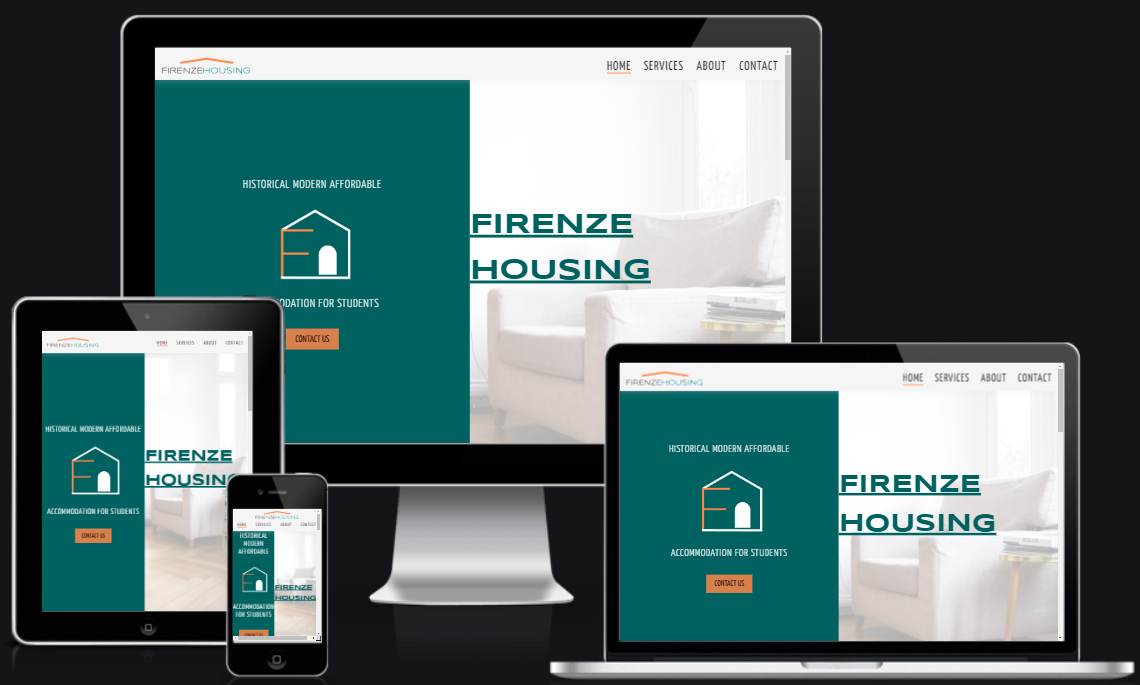
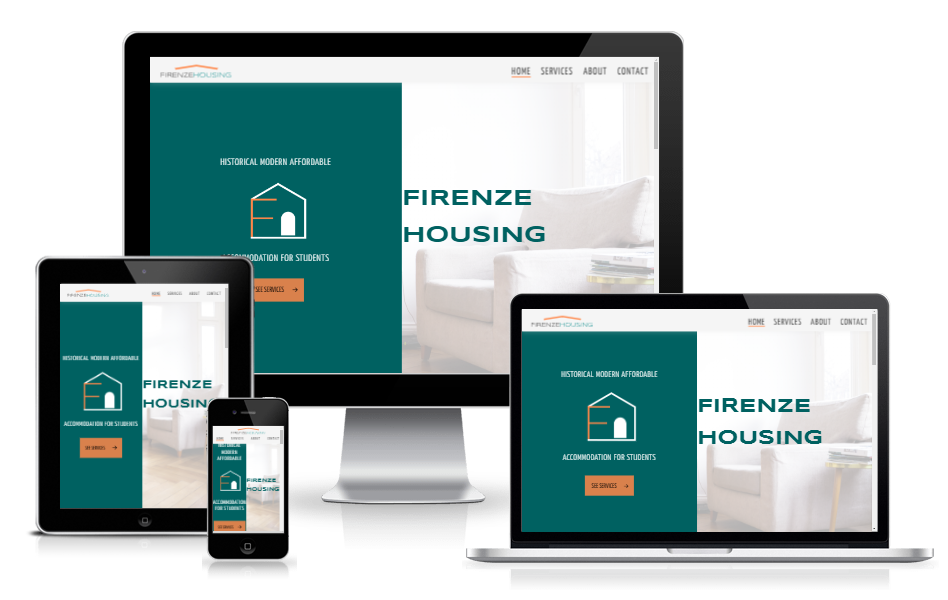
edit: upload new images after some changes

diff --git a/README.md b/README.md
@@ -97,13 +97,11 @@ A minimal color scheme and typography have been chosen to create a simple, eye-c
 
 ### Colour Scheme
 
-![Dark shade of green-cyan](assets/images/colour_scheme/dark_shade_of_green_cyan.png) ![Medium light shade of orange](assets/images/colour_scheme/medium_light_shade_of_orange.png)  ![Medium light shade of orange](assets/images/colour_scheme/aquamarine.png)
+![Dark shade of green-cyan](assets/images/colour_scheme/dark_shade_of_green_cyan.png) ![Medium light shade of orange](assets/images/colour_scheme/medium_light_shade_of_orange.png)
 
 - The two main colors in the logo design are used throughout the site to separate sections and objects from each other. The dark shade of green-cyan color with **#006161** hex code is densely used in the background and title text of the main sections. In addition, the colors of these illustrations have been adjusted accordingly in order to ensure that the illustrations in different sections are compatible with the page layout.
 
-- The second main color, **#ff8749** hex coded medium light shade of orange, is mostly used to highlight the buttons. This choice was made because it is a more attractive color than the dark green color.
-
-- Aquamarine with the **#7fffd4** hex code is used to highlight the price and booking buttons in the services section.
+- The second main color, **#ff8749** hex coded medium light shade of orange, is mostly used to highlight the buttons. This color i also used to highlight the price and booking buttons in the services section. This choice was made because it is a more attractive color than the dark green color.
 
 - Black color is used in the general font and icons of the site.
 
@@ -111,7 +109,7 @@ A minimal color scheme and typography have been chosen to create a simple, eye-c
 
 ### Typography
 
-- In order to have a simple design, two fonts are used. Syncopate was used for the main title and sub-titles, and Serif was used as its fallback. In order to attract attention to the main headings,underline decoration was applied. This is not implemented in the subheadings.
+- In order to have a simple design, two fonts are used. Syncopate was used for the main title and sub-titles, and Serif was used as its fallback.
 
 - All remaining sections of the website (navigation menu, descriptions, etc.) use Yanone Kaffeesatz and Sans-serif as fallback font.
 
@@ -165,29 +163,30 @@ The site consists of index.html, services.html, contact.html pages.
 
 ### Navigation Bar
 
-![Navigation Bar](assets/images/structure/navigation_structure.png)
+- The Navigation menu is fixed at the top of all pages to provide the user with easy navigation between the pages. In order to determine which page the user is currently on, there is an orange underline effect below the name of the current page.
 
-The Navigation menu is fixed at the top of all pages to provide the user with easy navigation between the pages. In order to determine which page the user is currently on, there is an orange under-line effect under the name of the current page.
-
-![Navigation Bar](assets/images/structure/navigation_mobile_structure.png)
+  ![Navigation Bar](assets/images/structure/navigation_structure.png)
 
 - On screens with 719 px and below, the logo goes over the navigation menu links.
+
+  ![Navigation Bar](assets/images/structure/navigation_mobile_structure.png)
 
 [Back to contents](<#contents>)
 
 ### Sub navigations
 
-![Contact Us Navigation](assets/images/structure/contact_us_navigation_btn.png)
+- The "Services" sub-navigation on the main page is for quickly directing the user to the Services page.
 
-- The "Contact Us" sub-navigation on the main page is for quickly directing the user to the contact form.
-
-![Contact Us Navigation](assets/images/structure/main_services_sub_nav.png)
+  ![Services Main Navigation](assets/images/structure/main_navigation_btn.png)
 
 - The 4 icons in the services section of the home page quickly guide the user to the desired service section. In the desktop version, when the user hover over any of these icons, the color of the icon changes.
 
-![Contact Us Navigation](assets/images/structure/services_navigation.png)   ![Contact Us Navigation](assets/images/structure/services_navigation+2.png)
+  ![Sub Navigation](assets/images/structure/main_services_sub_nav.png)
 
-- When the services section in the navbar menu is clicked, a detailed explanation about the service types offered is displayed on the new page that opens. The "Book Now" and "INFO" sub-navigations on the pictures and illustrations direct the user to the contact form where they can contact Firenze Housing and request the desired service.
+- When the Services section in the navbar menu is clicked, a detailed explanation about the service types offered is displayed on the new page that opens. The "Book Now" and "INFO" sub-navigations on the pictures and illustrations direct the user to the contact form where they can contact Firenze Housing and request the desired service.
+
+
+  ![Sub Navigation](assets/images/structure/services_navigation.png) ![Sub Navigation](assets/images/structure/services_navigation_2.png)
 
 [Back to contents](<#contents>)
 
@@ -247,7 +246,6 @@ According to research by Nielsen Norman Group, a large majority of website users
 
 **>>>[More](https://uxplanet.org/f-shaped-pattern-for-reading-content-80af79cd3394)** about F-Shaped Pattern for Reading Content
 
-
 ![Home Page](assets/images/features/home_page.png)
 
 [Back to contents](<#contents>)
@@ -294,23 +292,23 @@ It is fully responsive, fixed at the top of all pages on the site, and includes 
 
 ## Services 
 
-The Services section in the navigation menu is a direct link  to the services. After clicking this link, the user is directed to a Services page where he can see the advertisements and details on the Firenze Housing website.
+The Services section in the navigation menu is a direct link  to the services. After clicking this link, the users is directed to a Services page where they can see the advertisements and details on the Firenze Housing website.
 
 On the Services page, the user first sees the information and details about the Rental Apartments.
 
 ![Services Page](assets/images/features/services_page_main.png)
 
-When user scroll down, she/he will find detailed information about Single Bed Room, Double Bed Room and Storage services. There is also a Find Us section at the end of the Services page.
+When users scroll down, they will find detailed information about Single Bed Room, Double Bed Room and Storage services. There is also a Find Us section at the end of the Services page.
 
 - The Book Now and INFO links seen on the sections direct the user to the Contact page to contact Firenze Housing regarding the service they want to receive.
 
-- Single Bed Room
+- Single Bed Room Section
 ![Services Page](assets/images/features/services_page_single.png)
 
-- Double Bed Room
+- Double Bed Room Section
 ![Services Page](assets/images/features/services_page_double.png)
 
-- Storage
+- Storage Section
 ![Services Page](assets/images/features/services_page_storage.png)
 
 [Back to contents](<#contents>)
